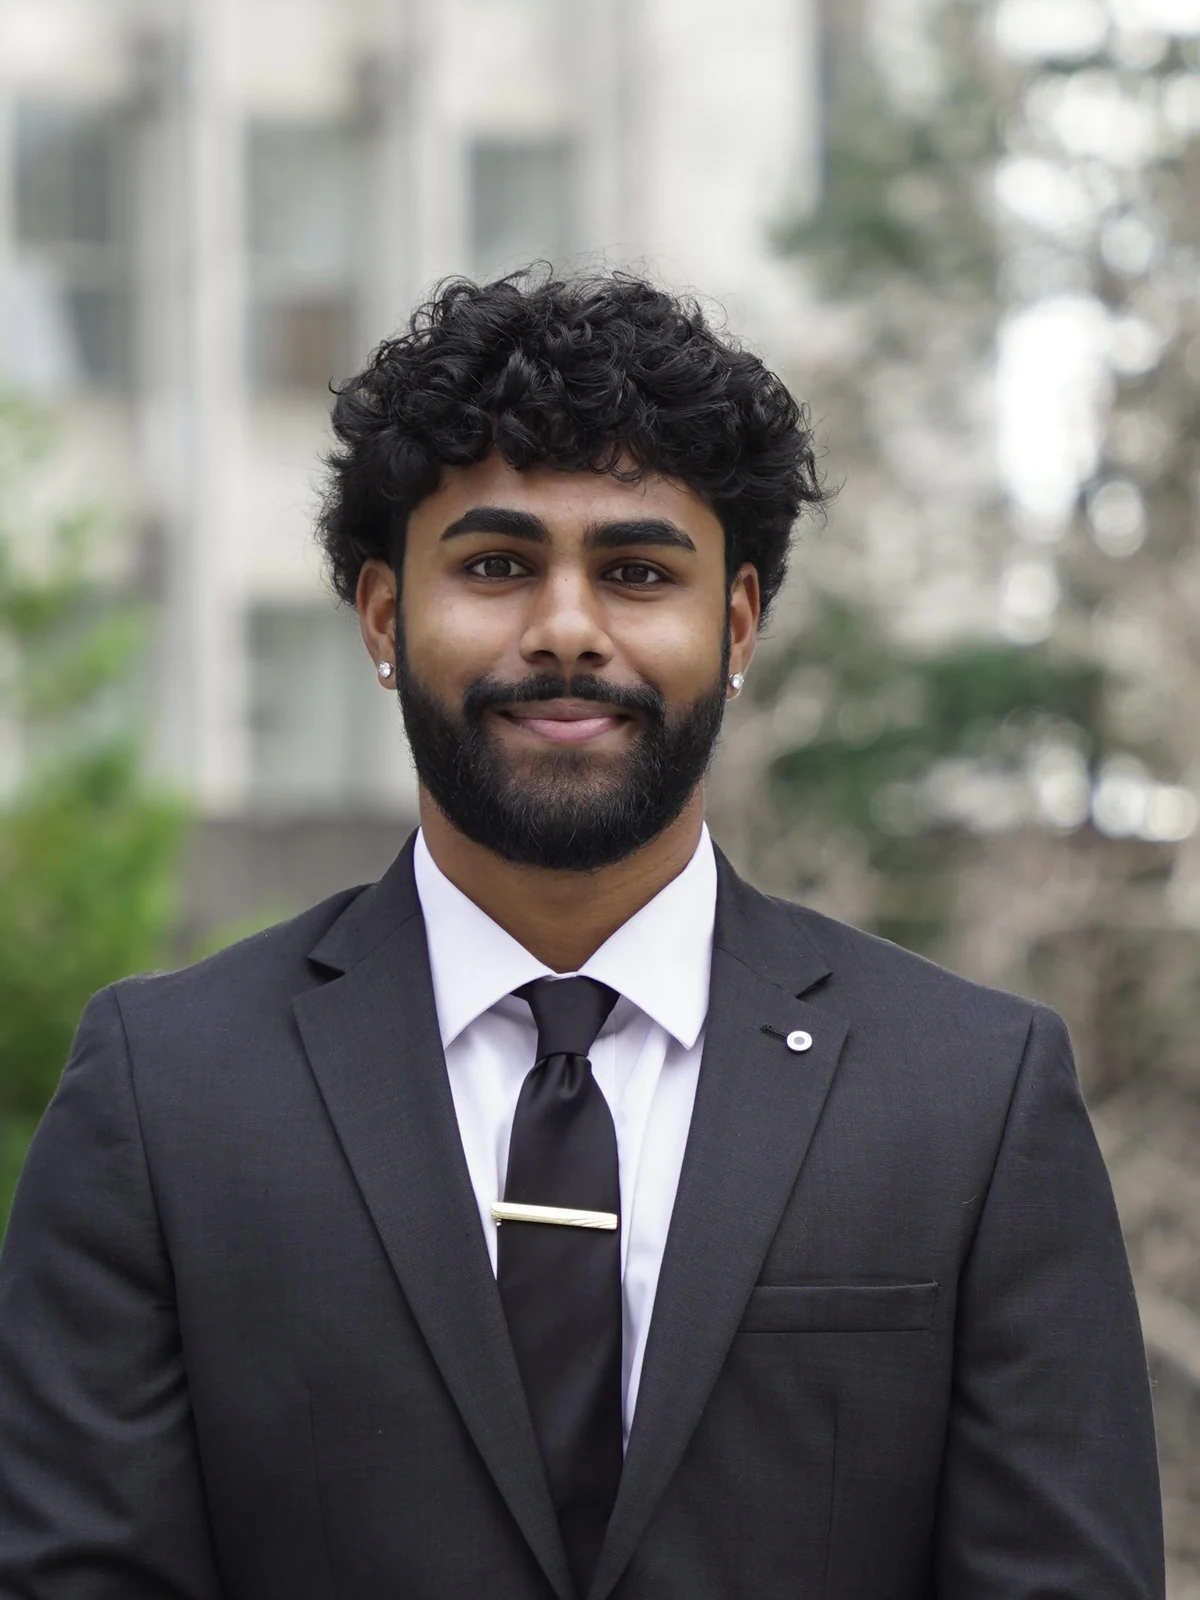
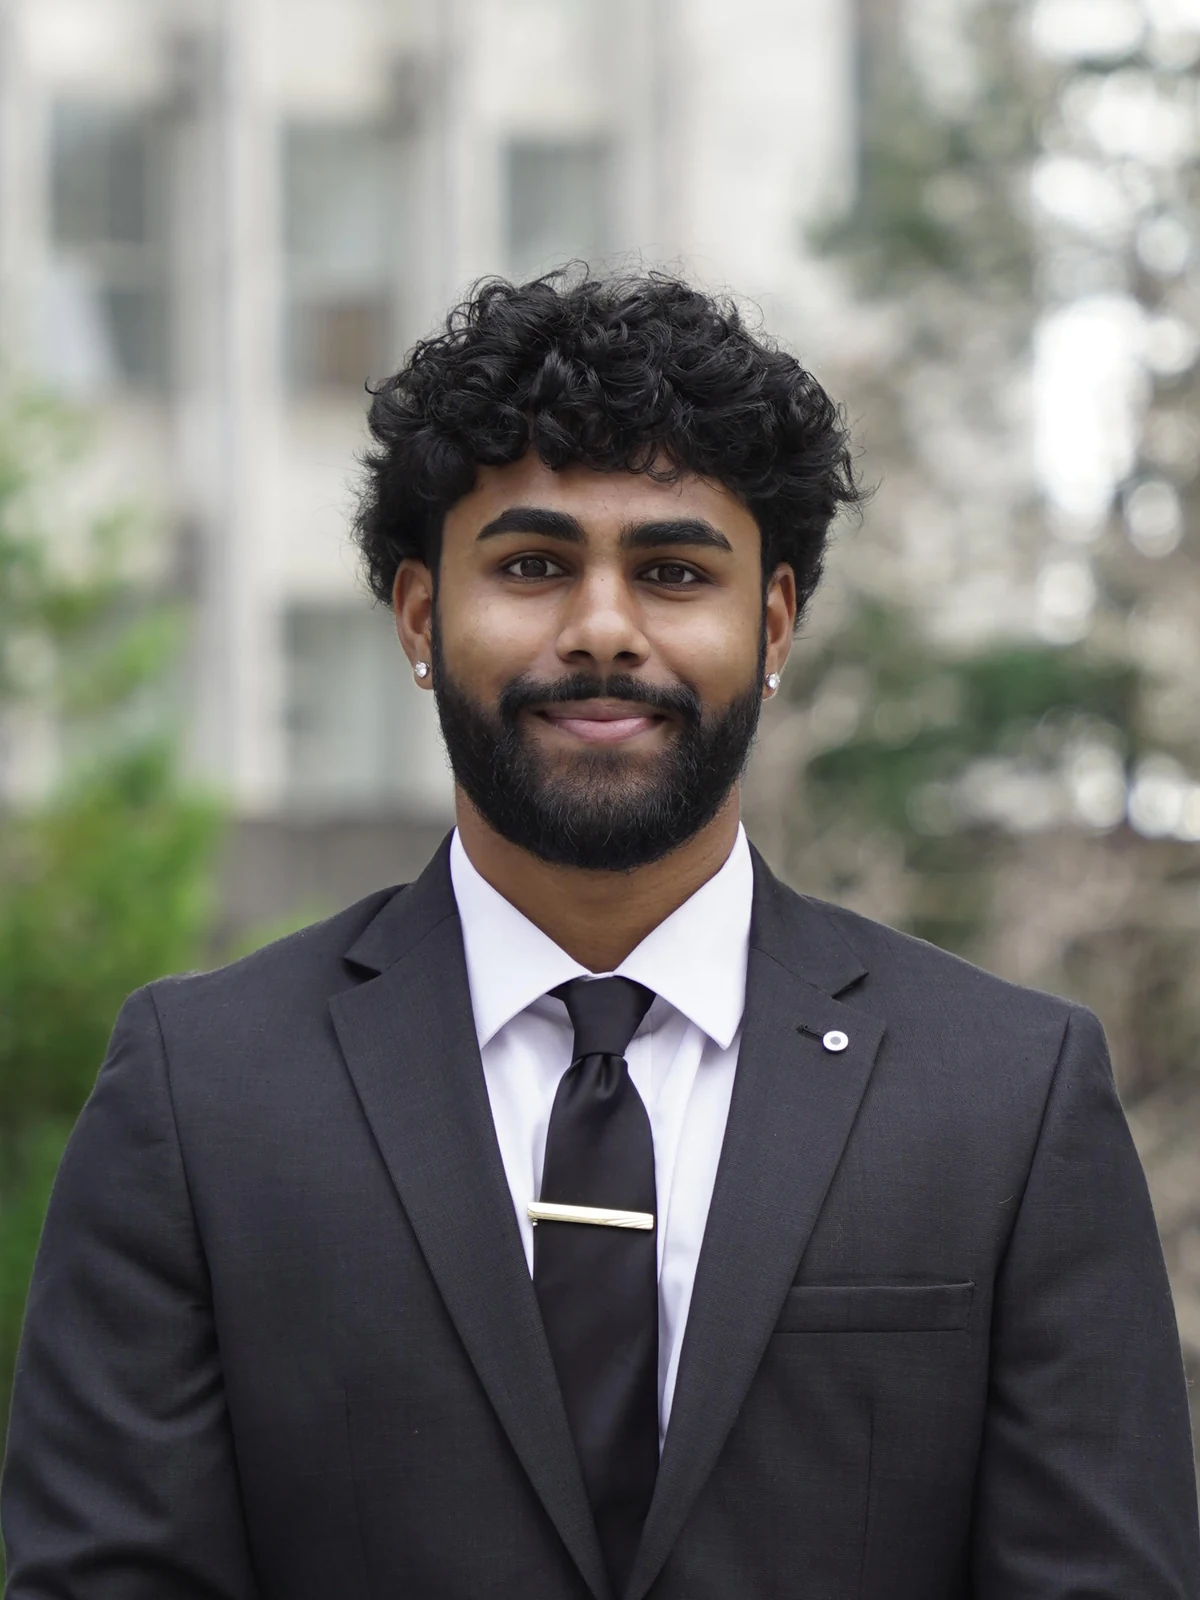
Center Nidhish Tekkam headshot in team photo crop.
Remove the horizontal offset that was shifting his face left of center in the executive board card.

diff --git a/scripts/process_headshots.py b/scripts/process_headshots.py
@@ -80,7 +80,7 @@ CROP_OVERRIDES: dict[str, dict[str, float]] = {
         "face_y_ratio": 0.34,
     },
     "rayhan-jain": {"face_ratio": 0.30, "offset_x": 0.03},
-    "nidhish-tekkam": {"face_ratio": 0.27, "offset_x": 0.03},
+    "nidhish-tekkam": {"face_ratio": 0.27},
     "willie-kang": {"manual_center": (0.50, 0.36), "crop_height_frac": 0.48, "face_y_ratio": 0.34},
     "alex-black": {"manual_center": (0.50, 0.42), "crop_height_frac": 0.76, "face_y_ratio": 0.38},
 }